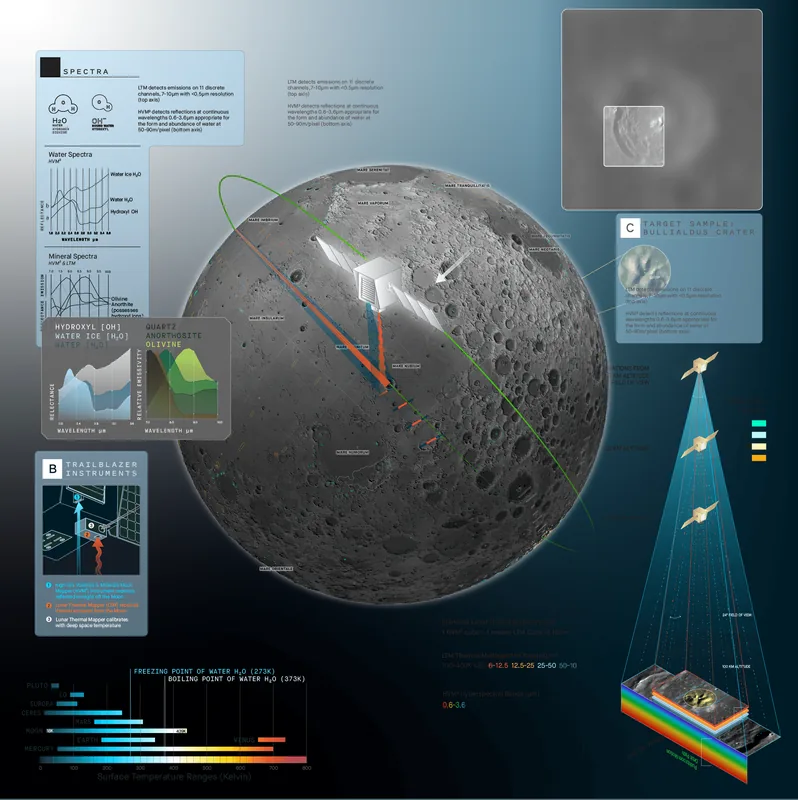
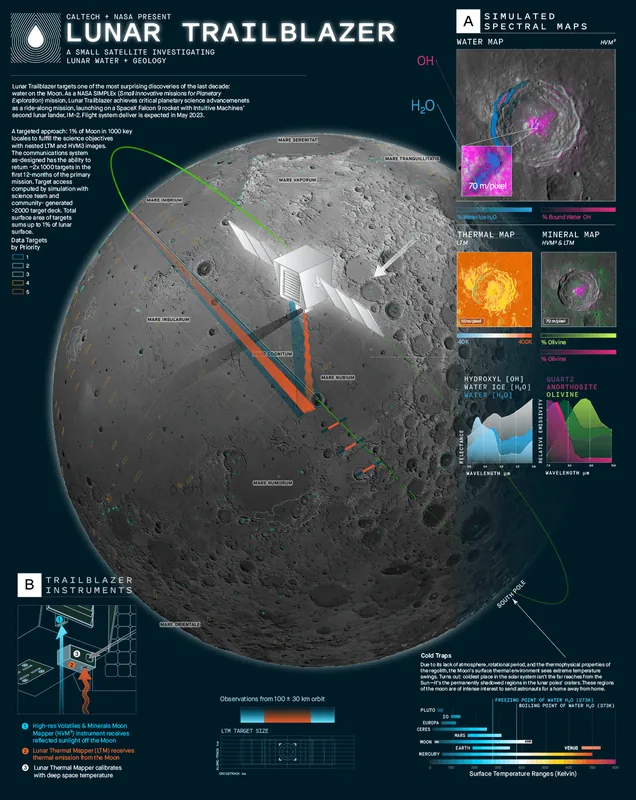
Lunar Trailblazer: replace spectra infographic with mission data acquisition infographic
Claude-Session: https://claude.ai/code/session_01VguxwzJd8C7LcNFhqFxFZQ

diff --git a/projects/lunar-trailblazer-science/index.html b/projects/lunar-trailblazer-science/index.html
@@ -157,7 +157,7 @@
         <figure style="background-color:#141417"><img src="/assets/images/ltb--color-spectra.webp" alt="Lunar Trailblazer Science: Color spectra" class="fade-img" onload="this.classList.add('is-loaded')" onerror="this.classList.add('is-loaded')" loading="lazy"><figcaption class="img-label"><span class="img-label__title">Color spectra</span></figcaption></figure>
         <figure style="background-color:#141417"><img src="/assets/images/ltb--mission-patch.webp" alt="Lunar Trailblazer Science: Mission patch" class="fade-img" onload="this.classList.add('is-loaded')" onerror="this.classList.add('is-loaded')" loading="lazy"><figcaption class="img-label"><span class="img-label__title">Mission patch</span></figcaption></figure>
         <figure class="full" style="background-color:#141417"><img src="/assets/images/ltb--patch-explainer.webp" alt="Lunar Trailblazer Science: Patch explainer" class="fade-img" onload="this.classList.add('is-loaded')" onerror="this.classList.add('is-loaded')" loading="lazy"><figcaption class="img-label"><span class="img-label__title">Patch explainer</span></figcaption></figure>
-        <figure style="background-color:#141417"><img src="/assets/images/ltb--spectra-infographic.webp" alt="Lunar Trailblazer Science: Spectra infographic" class="fade-img" onload="this.classList.add('is-loaded')" onerror="this.classList.add('is-loaded')" loading="lazy"><figcaption class="img-label"><span class="img-label__title">Spectra infographic</span></figcaption></figure>
+        <figure style="background-color:#141417"><img src="/assets/images/ltb--spectra-infographic.webp" alt="Lunar Trailblazer Science: Infographic for satellite mission data acquisition strategy" class="fade-img" onload="this.classList.add('is-loaded')" onerror="this.classList.add('is-loaded')" loading="lazy"><figcaption class="img-label"><span class="img-label__title">Infographic for satellite mission data acquisition strategy</span></figcaption></figure>
         <figure style="background-color:#141417"><img src="/assets/images/ltb--water-cycle.webp" alt="Lunar Trailblazer Science: Water cycle" class="fade-img" onload="this.classList.add('is-loaded')" onerror="this.classList.add('is-loaded')" loading="lazy"><figcaption class="img-label"><span class="img-label__title">Water cycle</span></figcaption></figure>
         <figure class="full" style="background-color:#141417"><img src="/media/4d1bdb_ea874cfda78549aeb92c98e66a860b95~mv2.png/v1/fit/w_1400,h_1400,q_85,usm_0.33_1.00_0.20,enc_avif,quality_auto/4d1bdb_ea874cfda78549aeb92c98e66a860b95~mv2.png" alt="Lunar Trailblazer Science: Branding + Identity" class="fade-img" onload="this.classList.add('is-loaded')" onerror="this.classList.add('is-loaded')" loading="lazy"><figcaption class="img-label"><span class="img-label__title">Branding + Identity</span></figcaption></figure>
       </div>
